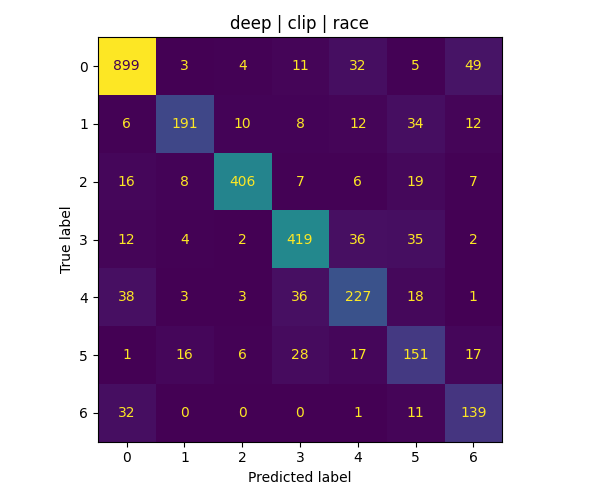
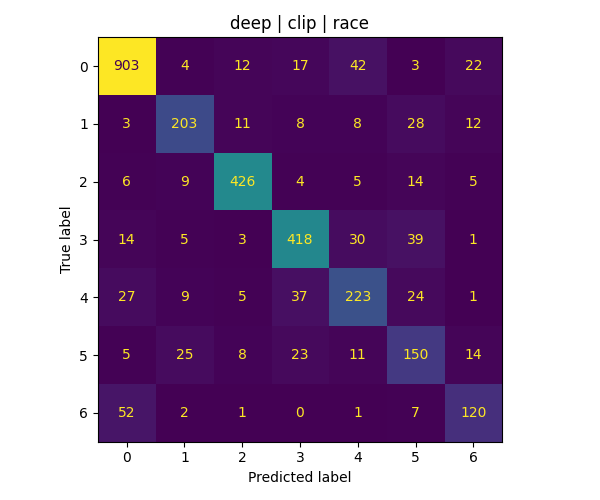
Perform hyperparameter finetuning

diff --git a/scripts/tune.py b/scripts/tune.py
@@ -1,0 +1,182 @@
+# scripts/tune.py
+"""
+Hyperparameter tuning for DeepAuditor via grid search.
+Trains each config for a reduced number of epochs, picks best val loss,
+saves best checkpoint per source/label combination.
+
+Run on Colab GPU — ~30-45 min total.
+"""
+
+import sys, os, logging, itertools, copy
+from pathlib import Path
+
+import numpy as np
+import torch
+import torch.nn as nn
+from torch.utils.data import DataLoader, TensorDataset
+
+sys.path.insert(0, str(Path(__file__).parent))
+from model import DeepAuditor
+
+logging.basicConfig(level=logging.INFO, format="%(asctime)s - %(levelname)s - %(message)s")
+logger = logging.getLogger(__name__)
+
+BASE_DIR   = Path(__file__).resolve().parent.parent
+EMB_DIR    = BASE_DIR / "data" / "processed" / "embeddings"
+LABEL_DIR  = BASE_DIR / "data" / "processed" / "labels"
+MODELS_DIR = BASE_DIR / "models"
+S2ORC_PATH = EMB_DIR / "s2orc_safety_sentence.npy"
+
+SOURCES = {"clip": 768, "deepface": 512}
+LABELS  = {"gender": 2, "race": 7, "age": 9}
+
+# ── grid ─────────────────────────────────────────────────────────────────────
+GRID = {
+    "lr":      [1e-3, 3e-4, 1e-4],
+    "dropout": [0.1, 0.3, 0.5],
+}
+TUNE_EPOCHS  = 10   # shorter runs for search
+BATCH_SIZE   = 256
+DEVICE       = "cuda" if torch.cuda.is_available() else "cpu"
+
+# ── data helpers ─────────────────────────────────────────────────────────────
+import pandas as pd
+
+def load_split(source, label_col, split):
+    emb_key = source  # "clip" or "deepface"
+    datasets = ["celeba", "fairface", "utkface"]
+    Xs, ys = [], []
+    for ds in datasets:
+        ep = EMB_DIR / f"{ds}_{split}_{emb_key}.npy"
+        lp = LABEL_DIR / f"{ds}_{split}_labels.csv"
+        if not ep.exists() or not lp.exists():
+            continue
+        df = pd.read_csv(lp)
+        if label_col not in df.columns:
+            continue
+        mask = df[label_col].notna()
+        y = df.loc[mask, label_col].values.astype(int)
+        X = np.load(ep, mmap_mode="r")[:len(df)][mask]
+        n = min(len(X), len(y))
+        Xs.append(X[:n]); ys.append(y[:n])
+    if not Xs:
+        return None, None
+    return np.concatenate(Xs), np.concatenate(ys)
+
+
+def make_loader(X, y, text_emb, shuffle=True):
+    Xt = torch.tensor(X, dtype=torch.float32)
+    yt = torch.tensor(y, dtype=torch.long)
+    tt = torch.tensor(text_emb, dtype=torch.float32).mean(0, keepdim=True).expand(len(X), -1)
+    ds = TensorDataset(Xt, tt, yt)
+    return DataLoader(ds, batch_size=BATCH_SIZE, shuffle=shuffle, num_workers=0)
+
+
+# ── train one config ──────────────────────────────────────────────────────────
+def train_config(vision_dim, num_classes, lr, dropout,
+                 train_loader, val_loader):
+    model = DeepAuditor(vision_dim=vision_dim, num_classes=num_classes,
+                        dropout=dropout).to(DEVICE)
+    opt = torch.optim.Adam(
+        list(model.vision_proj.parameters()) +
+        list(model.text_proj.parameters()) +
+        list(model.classifier.parameters()),
+        lr=lr
+    )
+    criterion = nn.CrossEntropyLoss()
+
+    best_val_loss = float("inf")
+    best_state    = None
+
+    for epoch in range(TUNE_EPOCHS):
+        model.train()
+        for Xb, tb, yb in train_loader:
+            Xb, tb, yb = Xb.to(DEVICE), tb.to(DEVICE), yb.to(DEVICE)
+            opt.zero_grad()
+            loss = criterion(model(Xb, tb), yb)
+            loss.backward()
+            opt.step()
+
+        # val
+        model.eval()
+        val_loss, n = 0.0, 0
+        with torch.no_grad():
+            for Xb, tb, yb in val_loader:
+                Xb, tb, yb = Xb.to(DEVICE), tb.to(DEVICE), yb.to(DEVICE)
+                val_loss += criterion(model(Xb, tb), yb).item() * len(yb)
+                n += len(yb)
+        val_loss /= n
+
+        if val_loss < best_val_loss:
+            best_val_loss = val_loss
+            best_state    = copy.deepcopy(model.state_dict())
+
+    return best_val_loss, best_state
+
+
+# ── main ─────────────────────────────────────────────────────────────────────
+def main():
+    text_emb = np.load(S2ORC_PATH, mmap_mode="r")
+    results  = []
+
+    for source, vision_dim in SOURCES.items():
+        for label_col, num_classes in LABELS.items():
+
+            X_tr, y_tr = load_split(source, label_col, "train")
+            X_va, y_va = load_split(source, label_col, "val")
+            if X_tr is None or X_va is None:
+                logger.warning(f"Skipping {source}/{label_col} — missing data")
+                continue
+
+            logger.info(f"\n{'='*55}")
+            logger.info(f"Tuning: {source} / {label_col}  "
+                        f"(train={len(X_tr)}, val={len(X_va)})")
+
+            train_loader = make_loader(X_tr, y_tr, text_emb, shuffle=True)
+            val_loader   = make_loader(X_va, y_va, text_emb, shuffle=False)
+
+            best_loss   = float("inf")
+            best_cfg    = None
+            best_state  = None
+
+            configs = list(itertools.product(GRID["lr"], GRID["dropout"]))
+            for lr, dropout in configs:
+                logger.info(f"  lr={lr}  dropout={dropout}")
+                val_loss, state = train_config(
+                    vision_dim, num_classes, lr, dropout,
+                    train_loader, val_loader
+                )
+                logger.info(f"    → val_loss={val_loss:.4f}")
+                results.append({
+                    "source": source, "label_col": label_col,
+                    "lr": lr, "dropout": dropout, "val_loss": val_loss
+                })
+                if val_loss < best_loss:
+                    best_loss  = val_loss
+                    best_cfg   = {"lr": lr, "dropout": dropout}
+                    best_state = state
+
+            logger.info(f"  BEST: {best_cfg}  val_loss={best_loss:.4f}")
+
+            # save best model (overwrites the original checkpoint)
+            model = DeepAuditor(vision_dim=vision_dim, num_classes=num_classes,
+                                dropout=best_cfg["dropout"]).to("cpu")
+            model.load_state_dict(best_state)
+            model.eval()
+            out_path = MODELS_DIR / f"deep_auditor_{source}_{label_col}.pt"
+            model.save(str(out_path))
+            logger.info(f"  Saved → {out_path}")
+
+    # print summary table
+    import pandas as pd
+    df = pd.DataFrame(results)
+    print("\n── Tuning results ──")
+    print(df.to_string(index=False))
+
+    best_per = df.loc[df.groupby(["source", "label_col"])["val_loss"].idxmin()]
+    print("\n── Best config per task ──")
+    print(best_per[["source","label_col","lr","dropout","val_loss"]].to_string(index=False))
+
+
+if __name__ == "__main__":
+    main()
